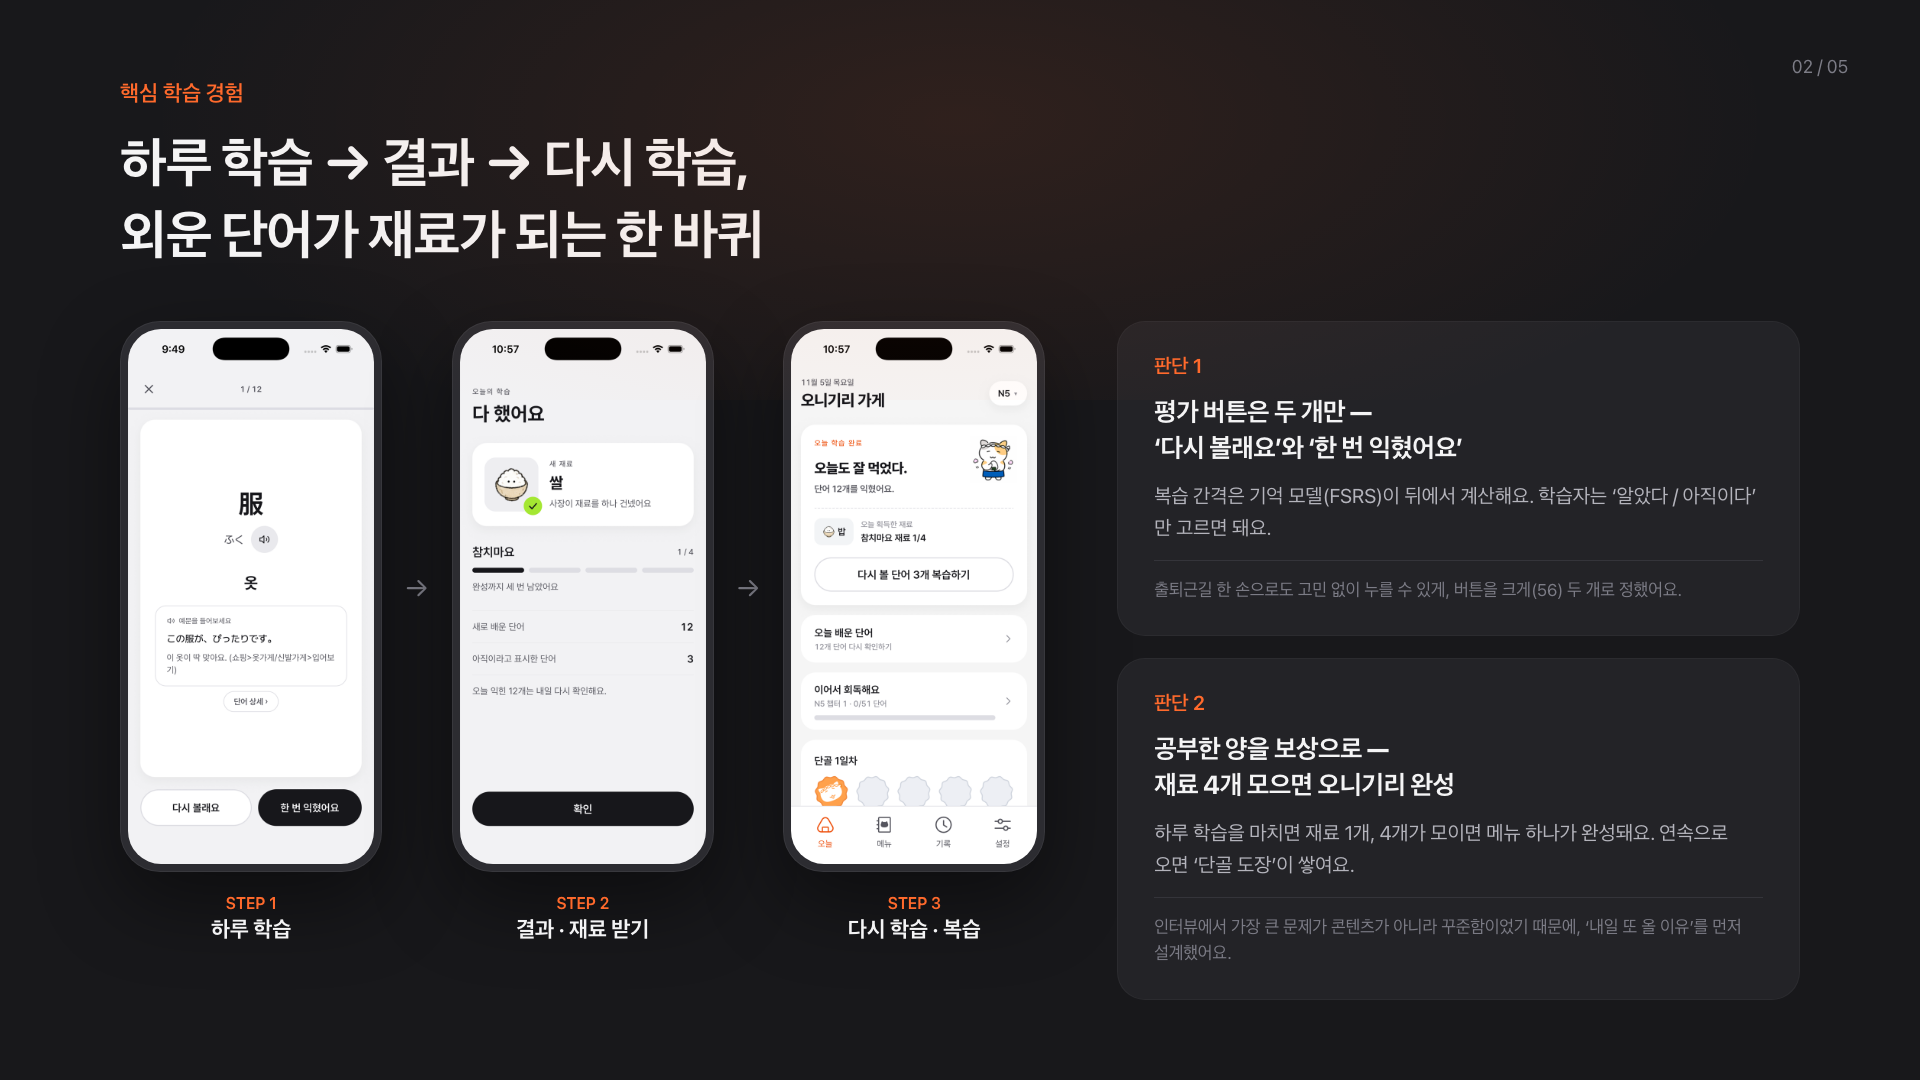
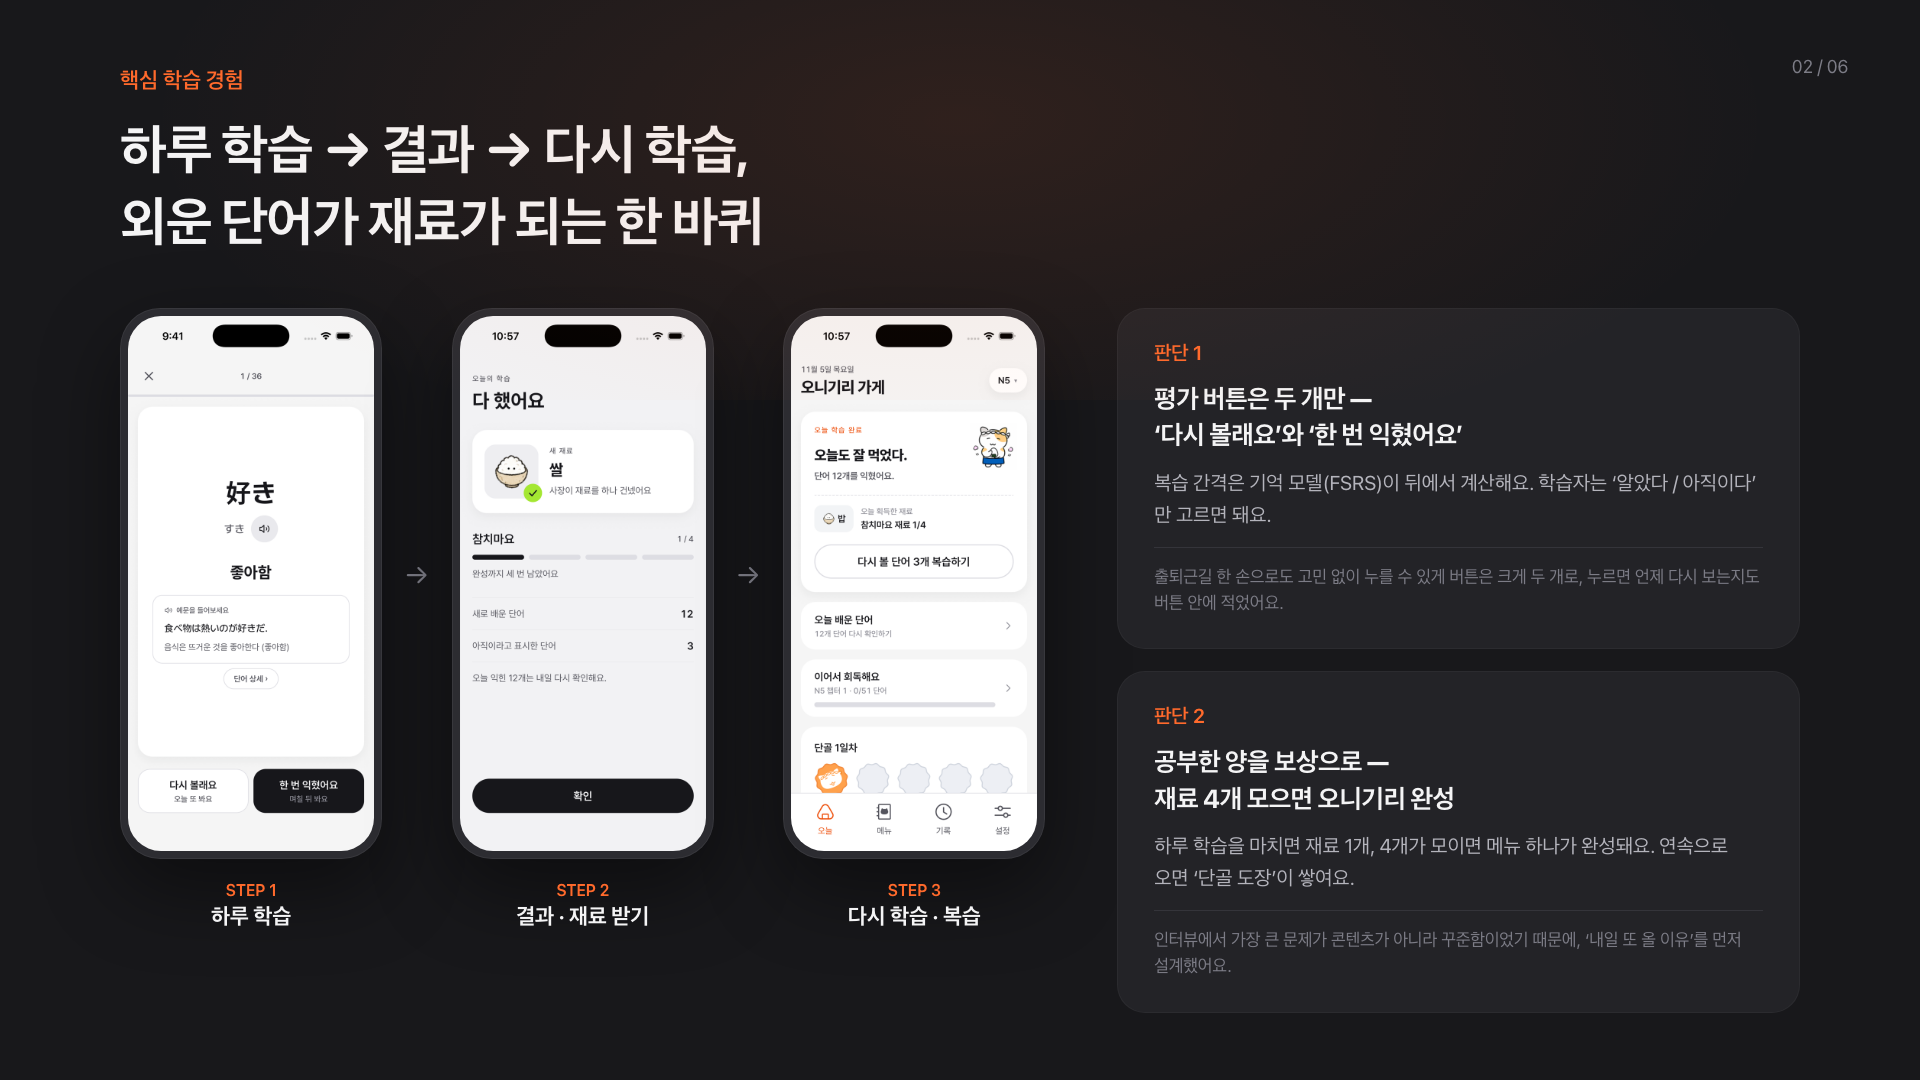
portfolio: 평가 버튼 최신안(C3-8) 반영 + 4장 '문제 1 자세히' 추가 — 출시 버튼 → 첫 탭 바텀시트 → 결과 문구
- 2장 학습 카드 이미지를 보조 문구 버튼으로 교체, 판단 1 문구 갱신
- 4장 신설: BEFORE · 첫 탭 바텀시트(v1.0.6) · 결과 보조 문구(PR 리뷰 중) 3컷 (iPhone 17 Pro 캡처)
- 3장 문제 1 검증·상태 칩 갱신, 쪽 번호 6장으로, PNG 01–06 재출력

diff --git a/portfolio/onikan-deck-2026-11.html b/portfolio/onikan-deck-2026-11.html
@@ -3,13 +3,13 @@
 <head>
 <meta charset="utf-8">
 <meta name="viewport" content="width=1920">
-<title>Onikan · 요약 5장</title>
+<title>Onikan · 요약 6장</title>
 <!--
-  오니칸 포트폴리오 요약본 5장 (2026-11-17)
+  오니칸 포트폴리오 요약본 6장 (2026-11-17 · 11-26 4장 '문제 1 자세히' 추가, 평가 버튼 최신안 C3-8 반영)
   - 대지 1920×1080, 글꼴 SF Pro (한글은 SF Pro에 글리프가 없어 macOS 기본 Apple SD Gothic Neo로 그려짐)
   - 근거: design-system/04-PORTFOLIO-STATUS-2026-11.md · research/interview-synthesis.md ·
           handoff/study-first-tap-feedback-SPEC.md · handoff/study-daily-load-SPEC.md
-  - 한 장만 보기: ?s=1 ~ ?s=5 (PNG 내보내기용)
+  - 한 장만 보기: ?s=1 ~ ?s=6 (PNG 내보내기용)
 -->
 <style>
   :root {
@@ -93,6 +93,26 @@
   .s1 .role { display: flex; gap: 18px; align-items: baseline; background: var(--panel); border-radius: 20px; padding: 20px 28px; font-size: 18px; color: var(--body); line-height: 1.5; }
   .s1 .role .who { flex: none; font-weight: 700; color: var(--ink); font-size: 19px; }
   .s1 .phone { width: 340px; justify-self: end; }
+
+
+  /* ───────── 4. 문제 1 자세히 ───────── */
+  .s3b { display: grid; grid-template-columns: 560px 1fr; gap: 64px; align-items: center; }
+  .s3b h1 { font-size: 46px; margin: 18px 0 18px; }
+  .s3b .sub { font-size: 20px; }
+  .s3b .steps { margin-top: 32px; display: flex; flex-direction: column; gap: 14px; }
+  .s3b .st { background: var(--panel); border-radius: 22px; padding: 22px 26px; }
+  .s3b .st .k { font-size: 16px; font-weight: 600; color: var(--orange); margin-bottom: 6px; }
+  .s3b .st p { font-size: 18px; line-height: 1.55; color: var(--body); }
+  .s3b .status { display: flex; gap: 10px; margin-top: 22px; flex-wrap: wrap; }
+  .s3b .flow { display: flex; gap: 18px; align-items: flex-start; justify-content: flex-end; }
+  .s3b .step { display: flex; flex-direction: column; align-items: center; gap: 20px; width: 300px; }
+  .s3b .step .phone { width: 300px; }
+  .s3b .step .cap { text-align: center; }
+  .s3b .step .cap .n { font-size: 15px; font-weight: 600; color: var(--mute); }
+  .s3b .step .cap .t { font-size: 22px; font-weight: 700; margin-top: 4px; }
+  .s3b .step .cap .d { font-size: 16px; line-height: 1.5; color: var(--body); margin-top: 6px; }
+  .s3b .step.now .cap .n { color: var(--orange); }
+  .s3b .arrow { align-self: center; margin-top: -120px; color: var(--mute); font-size: 26px; }
 
   /* ───────── 2. 핵심 학습 경험 ───────── */
   .s2 .head { margin-bottom: 52px; }
@@ -194,7 +214,7 @@
 
 <!-- ═════════ 1. 제품과 역할 ═════════ -->
 <section class="slide" id="s1">
-  <div class="page-no">01 / 05</div>
+  <div class="page-no">01 / 06</div>
   <div class="s1">
     <div>
       <div class="label">ONIKAN · 제품과 역할</div>
@@ -231,7 +251,7 @@
 
 <!-- ═════════ 2. 핵심 학습 경험 ═════════ -->
 <section class="slide s2" id="s2">
-  <div class="page-no">02 / 05</div>
+  <div class="page-no">02 / 06</div>
   <div class="head">
     <div class="label">핵심 학습 경험</div>
     <h1>하루 학습 → 결과 → 다시 학습,<br>외운 단어가 재료가 되는 한 바퀴</h1>
@@ -239,7 +259,7 @@
   <div class="body">
     <div class="flow">
       <div class="step">
-        <div class="phone"><img src="assets/onikan-deck/study-card.png" alt="학습 카드 — 다시 볼래요 / 한 번 익혔어요"></div>
+        <div class="phone"><img src="assets/onikan-deck/study-card.png" alt="학습 카드 — 다시 볼래요 · 오늘 또 봐요 / 한 번 익혔어요 · 며칠 뒤 봐요"></div>
         <div class="cap"><div class="n">STEP 1</div><div class="t">하루 학습</div></div>
       </div>
       <div class="arrow">→</div>
@@ -259,7 +279,7 @@
         <div class="card-title">판단 1</div>
         <h3>평가 버튼은 두 개만 —<br>‘다시 볼래요’와 ‘한 번 익혔어요’</h3>
         <p>복습 간격은 기억 모델(FSRS)이 뒤에서 계산해요. 학습자는 ‘알았다 / 아직이다’만 고르면 돼요.</p>
-        <div class="why">출퇴근길 한 손으로도 고민 없이 누를 수 있게, 버튼을 크게(56) 두 개로 정했어요.</div>
+        <div class="why">출퇴근길 한 손으로도 고민 없이 누를 수 있게 버튼은 크게 두 개로, 누르면 언제 다시 보는지도 버튼 안에 적었어요.</div>
       </div>
       <div class="card">
         <div class="card-title">판단 2</div>
@@ -273,7 +293,7 @@
 
 <!-- ═════════ 3. 출시 후 개선 ═════════ -->
 <section class="slide s3" id="s3">
-  <div class="page-no">03 / 05</div>
+  <div class="page-no">03 / 06</div>
   <div class="head center">
     <div class="label">출시 후 개선</div>
     <h1>출시 후 확인한 두 가지 문제를<br>앱에 반영했어요</h1>
@@ -286,8 +306,8 @@
       <h3>버튼 이름을 읽지 않고<br>“오른쪽 버튼”으로 기억했어요</h3>
       <div class="row"><div class="k">확인한 것</div><div class="v">참여자는 ‘한 번 익혔어요’를 누르면 무슨 일이 생기는지 모른 채 위치·색으로만 버튼을 구분했어요.</div></div>
       <div class="row"><div class="k">바꾼 것</div><div class="v">설명문을 늘리는 대신, <b>처음 누른 직후 한 번만</b> 카드가 ‘며칠 뒤 달력’으로 들어가는 모습을 보여 줘요. 글을 읽지 않아도 결과가 보이게.</div></div>
-      <div class="row"><div class="k">검증</div><div class="v">처음 보는 3명 중 <b>2명은 ‘이 단어가 다시 나온다’</b>고 설명했어요. 1명은 ‘다음 버튼’으로 이해 — 학습엔 지장 없었지만, 버튼 이름은 더 다듬을 여지가 있어요.</div></div>
-      <div class="status"><span class="chip done"><i></i>앱 반영 · v1.0.6</span><span class="chip done"><i></i>빠른 테스트 · 3명 중 2명</span><span class="chip wait"><i></i>버튼 이름 개선 검토</span></div>
+      <div class="row"><div class="k">검증</div><div class="v">처음 보는 3명 중 <b>2명은 ‘이 단어가 다시 나온다’</b>고 설명했어요. 1명은 ‘다음 버튼’으로 이해 → 버튼 안에 결과 문구를 넣었어요 <span class="o">(다음 장)</span>.</div></div>
+      <div class="status"><span class="chip done"><i></i>앱 반영 · v1.0.6</span><span class="chip done"><i></i>빠른 테스트 · 3명 중 2명</span><span class="chip wait"><i></i>결과 문구 · PR 리뷰 중</span></div>
     </div>
     <div class="case">
       <div class="tag">문제 2 · 사용자 의견 + 60일 시뮬레이션</div>
@@ -309,9 +329,48 @@
   </div>
 </section>
 
-<!-- ═════════ 4. AI와 디자인 시스템 ═════════ -->
+<!-- ═════════ 4. 문제 1 자세히 ═════════ -->
+<section class="slide" id="s3b">
+  <div class="page-no">04 / 06</div>
+  <div class="s3b">
+    <div>
+      <div class="label">출시 후 개선 · 문제 1 자세히</div>
+      <h1>버튼 이름은 그대로 두고,<br>누르면 생길 일을 보여 줬어요</h1>
+      <p class="sub">참여자는 버튼 글자보다 위치·색으로 기억했어요. 설명문을 늘리는 대신 두 단계로 바꿨어요.</p>
+      <div class="steps">
+        <div class="st">
+          <div class="k">1단계 · 처음 누를 때 한 번 (v1.0.6)</div>
+          <p>카드가 <b>‘며칠 뒤 달력’</b>으로 들어가는 바텀시트. 빠른 테스트 3명 중 <b>2명</b>이 ‘이 단어가 다시 나온다’고 설명했어요.</p>
+        </div>
+        <div class="st">
+          <div class="k">2단계 · 매번 보는 버튼 안에 (C3-8)</div>
+          <p>나머지 1명은 시트를 본 뒤에도 ‘다음 버튼’으로 이해했어요. 시트는 한 번 보고 사라지니, 결과를 <b>버튼 안에 남겼어요</b> — 높이 56 → 72, 라운드 20.</p>
+        </div>
+      </div>
+      <div class="status"><span class="chip done"><i></i>바텀시트 · v1.0.6</span><span class="chip wait"><i></i>결과 문구 · PR 리뷰 중</span></div>
+    </div>
+    <div class="flow">
+      <div class="step">
+        <div class="phone"><img src="assets/onikan-deck/study-card-before.png" alt="처음 출시한 평가 버튼 — 다시 볼래요 / 한 번 익혔어요"></div>
+        <div class="cap"><div class="n">BEFORE</div><div class="t">이름만 있는 버튼</div><div class="d">“오른쪽 버튼”으로 기억</div></div>
+      </div>
+      <div class="arrow">→</div>
+      <div class="step">
+        <div class="phone"><img src="assets/onikan-deck/learned-sheet.png" alt="첫 탭 바텀시트 — 익힌 단어는 며칠 뒤 다시 꺼내 볼게요"></div>
+        <div class="cap"><div class="n">1단계 · 신규 사용자 1회</div><div class="t">첫 탭 바텀시트</div><div class="d">결과를 그림으로 한 번</div></div>
+      </div>
+      <div class="arrow">→</div>
+      <div class="step now">
+        <div class="phone"><img src="assets/onikan-deck/study-card.png" alt="결과 문구 버튼 — 다시 볼래요 · 오늘 또 봐요 / 한 번 익혔어요 · 며칠 뒤 봐요"></div>
+        <div class="cap"><div class="n">2단계 · 최신안</div><div class="t">결과 보조 문구</div><div class="d">오늘 또 봐요 · 며칠 뒤 봐요</div></div>
+      </div>
+    </div>
+  </div>
+</section>
+
+<!-- ═════════ 5. AI와 디자인 시스템 ═════════ -->
 <section class="slide s4" id="s4">
-  <div class="page-no">04 / 05</div>
+  <div class="page-no">05 / 06</div>
   <div class="head center">
     <div class="label">AI와 디자인 시스템</div>
     <h1>기준은 제가 정하고, AI로 그 기준을<br>Figma와 코드 끝까지 옮겼어요</h1>
@@ -356,9 +415,9 @@
 
 </div>
 
-<!-- ═════════ 5. AI 워크플로 ═════════ -->
+<!-- ═════════ 6. AI 워크플로 ═════════ -->
 <section class="slide s5" id="s5">
-  <div class="page-no">05 / 05</div>
+  <div class="page-no">06 / 06</div>
   <div class="head">
     <div>
       <div class="label">AI 워크플로 · 디자인 시스템</div>
